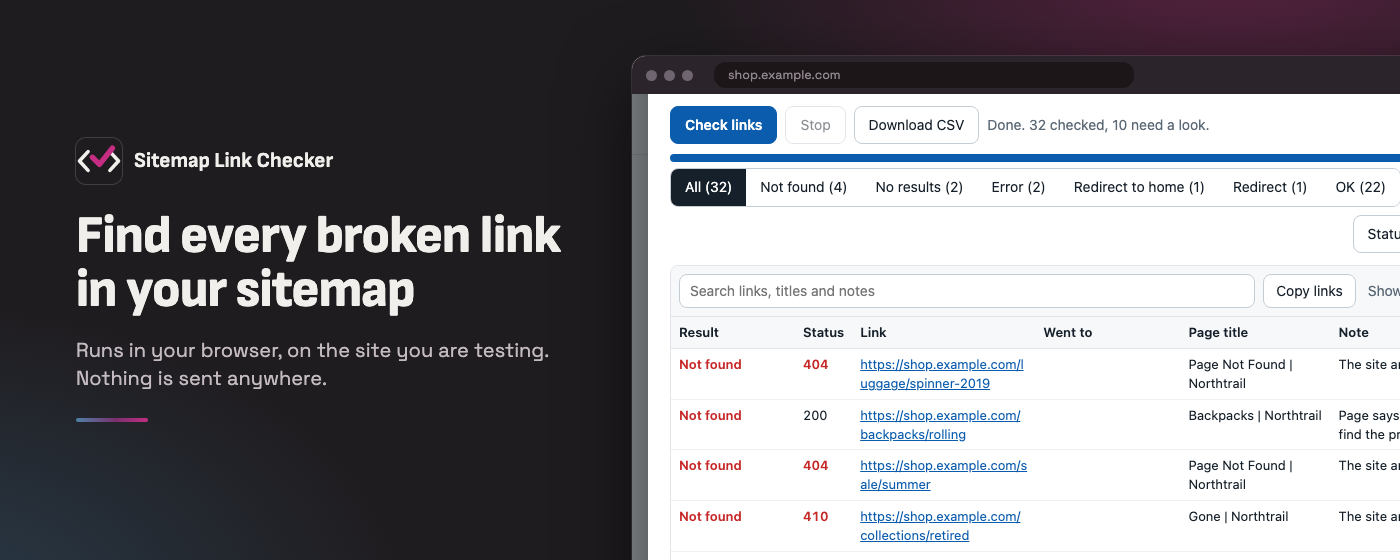
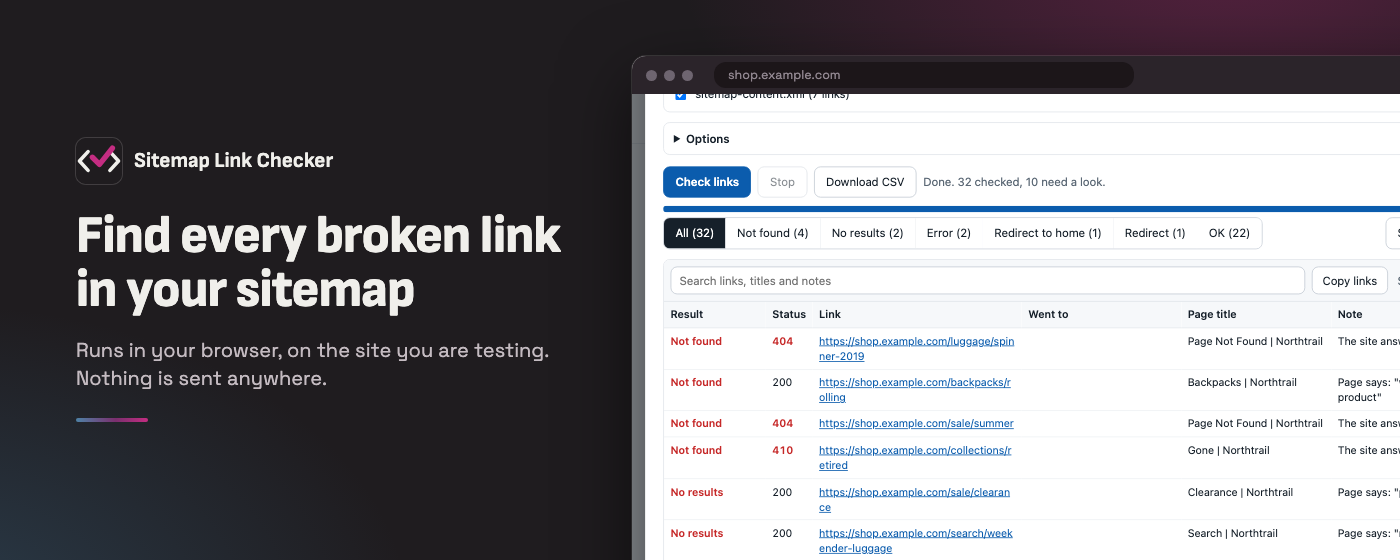
Prefill the sitemap path from the page and robots.txt
When the panel opens it looks for a sitemap link on the page, then
reads the Sitemap lines of robots.txt, and fills in the path it finds.
It never overrides a path the tester typed or a sitemap already loaded.

Store images re-rendered, with the framing of the status code
screenshot and the marquee fixed.

diff --git a/bookmarklet/index.html b/bookmarklet/index.html
@@ -392,9 +392,32 @@
     }
   }
 
+  /**
+   * The sitemap addresses a robots.txt file declares.
+   * @param {string} text - the contents of robots.txt
+   * @returns {string[]} the addresses on its "Sitemap:" lines, in order
+   */
+  function robotsSitemaps(text) {
+    return (String(text || '').match(/^[ \t]*sitemap[ \t]*:[ \t]*\S+/gim) || []).map(function (line) { return line.replace(/^[ \t]*sitemap[ \t]*:[ \t]*/i, ''); });
+  }
+
+  /**
+   * Chooses the sitemap to suggest from the addresses found for a site.
+   * Only addresses on the site itself can be read; an index is preferred because it leads to the rest.
+   * @param {string[]} list - candidate addresses, absolute or relative
+   * @param {string} origin - the origin of the site being tested
+   * @returns {string} the path (and query) of the chosen sitemap, or '' when none can be used
+   */
+  function pickSitemap(list, origin) {
+    var usable = (list || []).map(function (u) { try { return new URL(u, origin + '/'); } catch (e) { return null; } })
+      .filter(function (u) { return u && u.origin === origin && !/\.gz$/i.test(u.pathname); });
+    var best = usable.filter(function (u) { return /index/i.test(u.pathname); })[0] || usable[0];
+    return best ? best.pathname + best.search : '';
+  }
+
   // Node (tests): expose the pure helpers and stop before any DOM work.
   if (typeof module !== 'undefined' && module.exports) {
-    module.exports = { classify: classify, sitemapAddress: sitemapAddress, norm: norm, isHome: isHome, visibleText: visibleText, csvCell: csvCell, isLogin: isLogin, canonicalOf: canonicalOf, robotsOf: robotsOf, sameAsNotFound: sameAsNotFound, needsHuman: needsHuman, codeOf: codeOf, sortCodes: sortCodes, codePreview: codePreview, matches: matches, DEFAULT_PHRASES: DEFAULT_PHRASES };
+    module.exports = { classify: classify, sitemapAddress: sitemapAddress, robotsSitemaps: robotsSitemaps, pickSitemap: pickSitemap, norm: norm, isHome: isHome, visibleText: visibleText, csvCell: csvCell, isLogin: isLogin, canonicalOf: canonicalOf, robotsOf: robotsOf, sameAsNotFound: sameAsNotFound, needsHuman: needsHuman, codeOf: codeOf, sortCodes: sortCodes, codePreview: codePreview, matches: matches, DEFAULT_PHRASES: DEFAULT_PHRASES };
     return;
   }
 
@@ -501,6 +524,25 @@
   $('sm').value = DEFAULT_SITEMAP;
   $('phrases').value = DEFAULT_PHRASES.join('\n');
   filesHint(FILES_HINT);
+
+  // Suggest the site's real sitemap instead of the usual guess: first from links on the page, then from
+  // robots.txt, which is where a site declares its sitemaps. Never overrides what the tester typed or loaded.
+  var typed = false;
+  $('sm').addEventListener('input', function () { typed = true; });
+  function suggestSitemap(path, where) {
+    if (!path || typed || files.length) { return; }
+    $('sm').value = path;
+    filesHint('Found this site\'s sitemap ' + where + '. Click Load sitemap to list its files.');
+  }
+  function pageSitemaps() {
+    return Array.prototype.map.call(document.querySelectorAll('link[rel~="sitemap" i][href], a[href]'), function (n) { return n; })
+      .filter(function (n) { try { return n.tagName === 'LINK' || /sitemap[^/]*\.xml$/i.test(new URL(n.href).pathname); } catch (e) { return false; } })
+      .map(function (n) { return n.href; });
+  }
+  suggestSitemap(pickSitemap(pageSitemaps(), location.origin), 'linked on this page');
+  getText(location.origin + '/robots.txt').then(function (got) {
+    if (got.res.ok) { suggestSitemap(pickSitemap(robotsSitemaps(got.text), location.origin), 'in robots.txt'); }
+  }).catch(function () { /* no robots.txt is fine */ });
 
   function setStatus(t) { $('status').textContent = t; }
   function cls(r) { return r.replace(/ /g, '-'); }

diff --git a/extension/checker.js b/extension/checker.js
@@ -320,9 +320,32 @@
     }
   }
 
+  /**
+   * The sitemap addresses a robots.txt file declares.
+   * @param {string} text - the contents of robots.txt
+   * @returns {string[]} the addresses on its "Sitemap:" lines, in order
+   */
+  function robotsSitemaps(text) {
+    return (String(text || '').match(/^[ \t]*sitemap[ \t]*:[ \t]*\S+/gim) || []).map(function (line) { return line.replace(/^[ \t]*sitemap[ \t]*:[ \t]*/i, ''); });
+  }
+
+  /**
+   * Chooses the sitemap to suggest from the addresses found for a site.
+   * Only addresses on the site itself can be read; an index is preferred because it leads to the rest.
+   * @param {string[]} list - candidate addresses, absolute or relative
+   * @param {string} origin - the origin of the site being tested
+   * @returns {string} the path (and query) of the chosen sitemap, or '' when none can be used
+   */
+  function pickSitemap(list, origin) {
+    var usable = (list || []).map(function (u) { try { return new URL(u, origin + '/'); } catch (e) { return null; } })
+      .filter(function (u) { return u && u.origin === origin && !/\.gz$/i.test(u.pathname); });
+    var best = usable.filter(function (u) { return /index/i.test(u.pathname); })[0] || usable[0];
+    return best ? best.pathname + best.search : '';
+  }
+
   // Node (tests): expose the pure helpers and stop before any DOM work.
   if (typeof module !== 'undefined' && module.exports) {
-    module.exports = { classify: classify, sitemapAddress: sitemapAddress, norm: norm, isHome: isHome, visibleText: visibleText, csvCell: csvCell, isLogin: isLogin, canonicalOf: canonicalOf, robotsOf: robotsOf, sameAsNotFound: sameAsNotFound, needsHuman: needsHuman, codeOf: codeOf, sortCodes: sortCodes, codePreview: codePreview, matches: matches, DEFAULT_PHRASES: DEFAULT_PHRASES };
+    module.exports = { classify: classify, sitemapAddress: sitemapAddress, robotsSitemaps: robotsSitemaps, pickSitemap: pickSitemap, norm: norm, isHome: isHome, visibleText: visibleText, csvCell: csvCell, isLogin: isLogin, canonicalOf: canonicalOf, robotsOf: robotsOf, sameAsNotFound: sameAsNotFound, needsHuman: needsHuman, codeOf: codeOf, sortCodes: sortCodes, codePreview: codePreview, matches: matches, DEFAULT_PHRASES: DEFAULT_PHRASES };
     return;
   }
 
@@ -429,6 +452,25 @@
   $('sm').value = DEFAULT_SITEMAP;
   $('phrases').value = DEFAULT_PHRASES.join('\n');
   filesHint(FILES_HINT);
+
+  // Suggest the site's real sitemap instead of the usual guess: first from links on the page, then from
+  // robots.txt, which is where a site declares its sitemaps. Never overrides what the tester typed or loaded.
+  var typed = false;
+  $('sm').addEventListener('input', function () { typed = true; });
+  function suggestSitemap(path, where) {
+    if (!path || typed || files.length) { return; }
+    $('sm').value = path;
+    filesHint('Found this site\'s sitemap ' + where + '. Click Load sitemap to list its files.');
+  }
+  function pageSitemaps() {
+    return Array.prototype.map.call(document.querySelectorAll('link[rel~="sitemap" i][href], a[href]'), function (n) { return n; })
+      .filter(function (n) { try { return n.tagName === 'LINK' || /sitemap[^/]*\.xml$/i.test(new URL(n.href).pathname); } catch (e) { return false; } })
+      .map(function (n) { return n.href; });
+  }
+  suggestSitemap(pickSitemap(pageSitemaps(), location.origin), 'linked on this page');
+  getText(location.origin + '/robots.txt').then(function (got) {
+    if (got.res.ok) { suggestSitemap(pickSitemap(robotsSitemaps(got.text), location.origin), 'in robots.txt'); }
+  }).catch(function () { /* no robots.txt is fine */ });
 
   function setStatus(t) { $('status').textContent = t; }
   function cls(r) { return r.replace(/ /g, '-'); }

diff --git a/test/classify.test.js b/test/classify.test.js
@@ -2,7 +2,7 @@
 
 const test = require('node:test');
 const assert = require('node:assert');
-const { classify, sitemapAddress, norm, isHome, visibleText, csvCell, isLogin, canonicalOf, robotsOf, sameAsNotFound, needsHuman, codeOf, sortCodes, codePreview, matches, DEFAULT_PHRASES } = require('../extension/checker.js');
+const { classify, sitemapAddress, robotsSitemaps, pickSitemap, norm, isHome, visibleText, csvCell, isLogin, canonicalOf, robotsOf, sameAsNotFound, needsHuman, codeOf, sortCodes, codePreview, matches, DEFAULT_PHRASES } = require('../extension/checker.js');
 
 const base = { requestedUrl: 'https://shop.example/luggage/', finalUrl: 'https://shop.example/luggage/', status: 200, redirected: false, title: 'Luggage', heading: 'Luggage', text: 'luggage 20 results ' + 'carry-on and checked bags for every trip. '.repeat(6), phrases: DEFAULT_PHRASES };
 const check = (overrides) => classify(Object.assign({}, base, overrides)).result;
@@ -213,4 +213,18 @@ test('codePreview summarizes the chosen status codes', () => {
     assert.strictEqual(codePreview(['500', '404']), '404, 500');
     assert.strictEqual(codePreview(['200', '404', '503']), '404, 503, 200');
     assert.strictEqual(codePreview(['200', '404', '503', '410', 'No code']), '404, 410 +3');
+});
+
+test('robotsSitemaps reads the Sitemap lines of robots.txt', () => {
+    const text = 'User-agent: *\nDisallow: /cart\n# Sitemap: https://shop.example/old.xml\nSitemap: https://shop.example/sitemap_index.xml\n  sitemap:https://shop.example/news.xml\n';
+    assert.deepStrictEqual(robotsSitemaps(text), ['https://shop.example/sitemap_index.xml', 'https://shop.example/news.xml']);
+    assert.deepStrictEqual(robotsSitemaps('<html><p>Sitemap: none</p></html>'), []);
+});
+
+test('pickSitemap prefers an index on the same site and skips what it cannot read', () => {
+    const origin = 'https://shop.example';
+    assert.strictEqual(pickSitemap(['https://shop.example/news.xml', 'https://shop.example/sitemap_index.xml'], origin), '/sitemap_index.xml');
+    assert.strictEqual(pickSitemap(['https://cdn.example/sitemap.xml', '/maps/sitemap.xml?lang=en'], origin), '/maps/sitemap.xml?lang=en');
+    assert.strictEqual(pickSitemap(['https://shop.example/sitemap.xml.gz', 'https://other.example/sitemap.xml'], origin), '');
+    assert.strictEqual(pickSitemap([], origin), '');
 });

diff --git a/tools/store-images/server.js b/tools/store-images/server.js
@@ -58,7 +58,7 @@ nav{display:flex;gap:26px;align-items:center;padding:16px 32px;border-bottom:1px
     await api.run([]);
     if (mode === 'codes') { button('Status code').click(); root.querySelector('.menu input[value="404"]').click(); root.querySelector('.menu input[value="410"]').click(); }
     if (mode === 'search') { var q = root.getElementById('q'); q.value = 'luggage'; q.dispatchEvent(new Event('input')); }
-    wrap.scrollTop = root.getElementById('start').getBoundingClientRect().top + wrap.scrollTop - 12;
+    if (mode === 'codes') { wrap.style.paddingTop = '6px'; wrap.scrollTop = 0; } else { wrap.scrollTop = root.getElementById('start').getBoundingClientRect().top + wrap.scrollTop - 12; }
   }
   // show a neutral address instead of the local one the pages are served from
   var walker = document.createTreeWalker(root, NodeFilter.SHOW_TEXT), node;
@@ -109,7 +109,7 @@ body{width:1400px;height:560px;display:flex;align-items:center;gap:56px;padding-
 .win{flex:none;margin-top:150px}
 </style></head><body><div class="copy"><div class="name"><img src="/icon.svg" width="46" height="46" alt="">Sitemap Link Checker</div>
 <h1>Find every broken link in your sitemap</h1><p>Runs in your browser, on the site you are testing. Nothing is sent anywhere.</p><div class="rule"></div></div>
-${frame('all', 900, 560, 1)}</body></html>`;
+${frame('all', 900, 560, 0.82)}</body></html>`;
 
 http.createServer((req, res) => {
     const url = new URL(req.url, ORIGIN), p = url.pathname;

diff --git a/README.md b/README.md
@@ -25,7 +25,7 @@ Prefer not to install anything? Open `bookmarklet/index.html` in your browser an
 
 1. Open the site you want to test. Any page will do.
 2. Click the **Sitemap Link Checker** button in the toolbar. A panel opens over the page.
-3. The sitemap address shows the site you are on, which cannot be changed, followed by the path `/sitemap.xml`. Change the path if your sitemap lives elsewhere, then click **Load sitemap**. If there is no `/sitemap.xml`, the checker tries `/sitemap_index.xml` before giving up.
+3. The sitemap address shows the site you are on, which cannot be changed, followed by a path. The checker fills the path in for you: it looks for a sitemap link on the page, then in the site's `robots.txt`, and otherwise uses `/sitemap.xml`. Change the path if your sitemap lives elsewhere, then click **Load sitemap**. If there is no `/sitemap.xml`, the checker tries `/sitemap_index.xml` before giving up.
 4. Tick the sitemap files to check and click **Check links**.
 5. Filter the results to the problems, and click **Download CSV** to save them.
 
